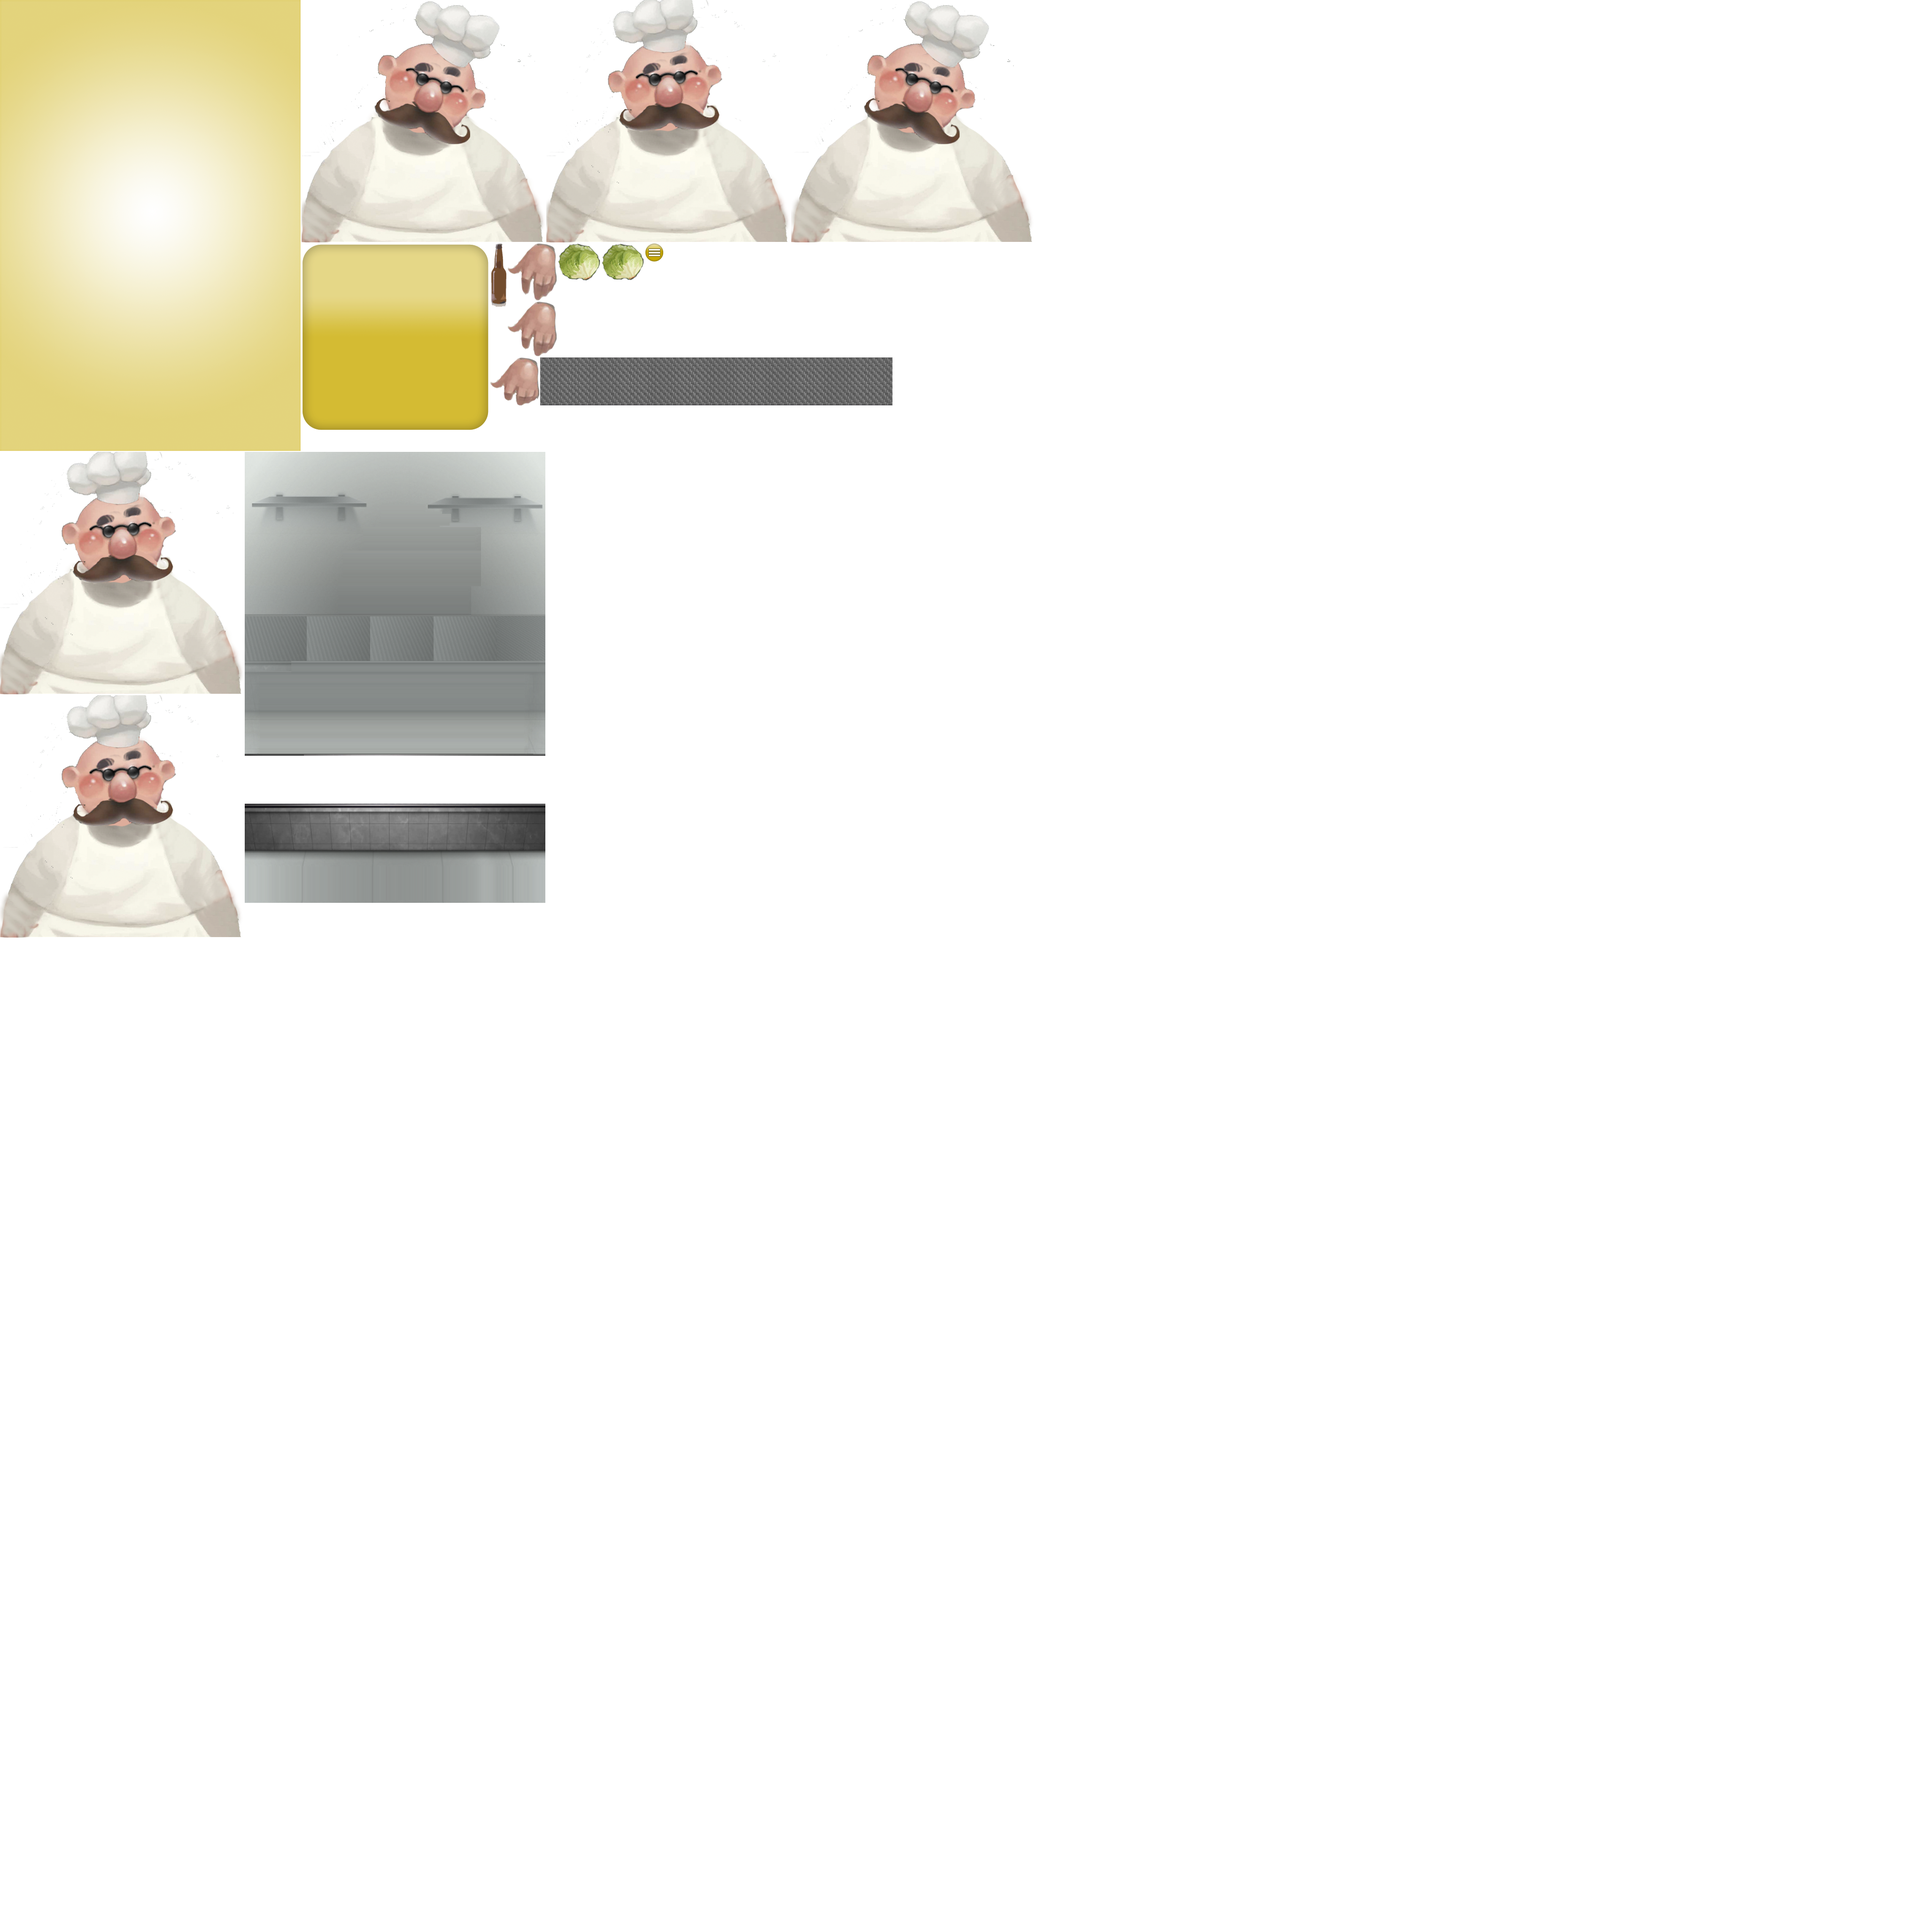
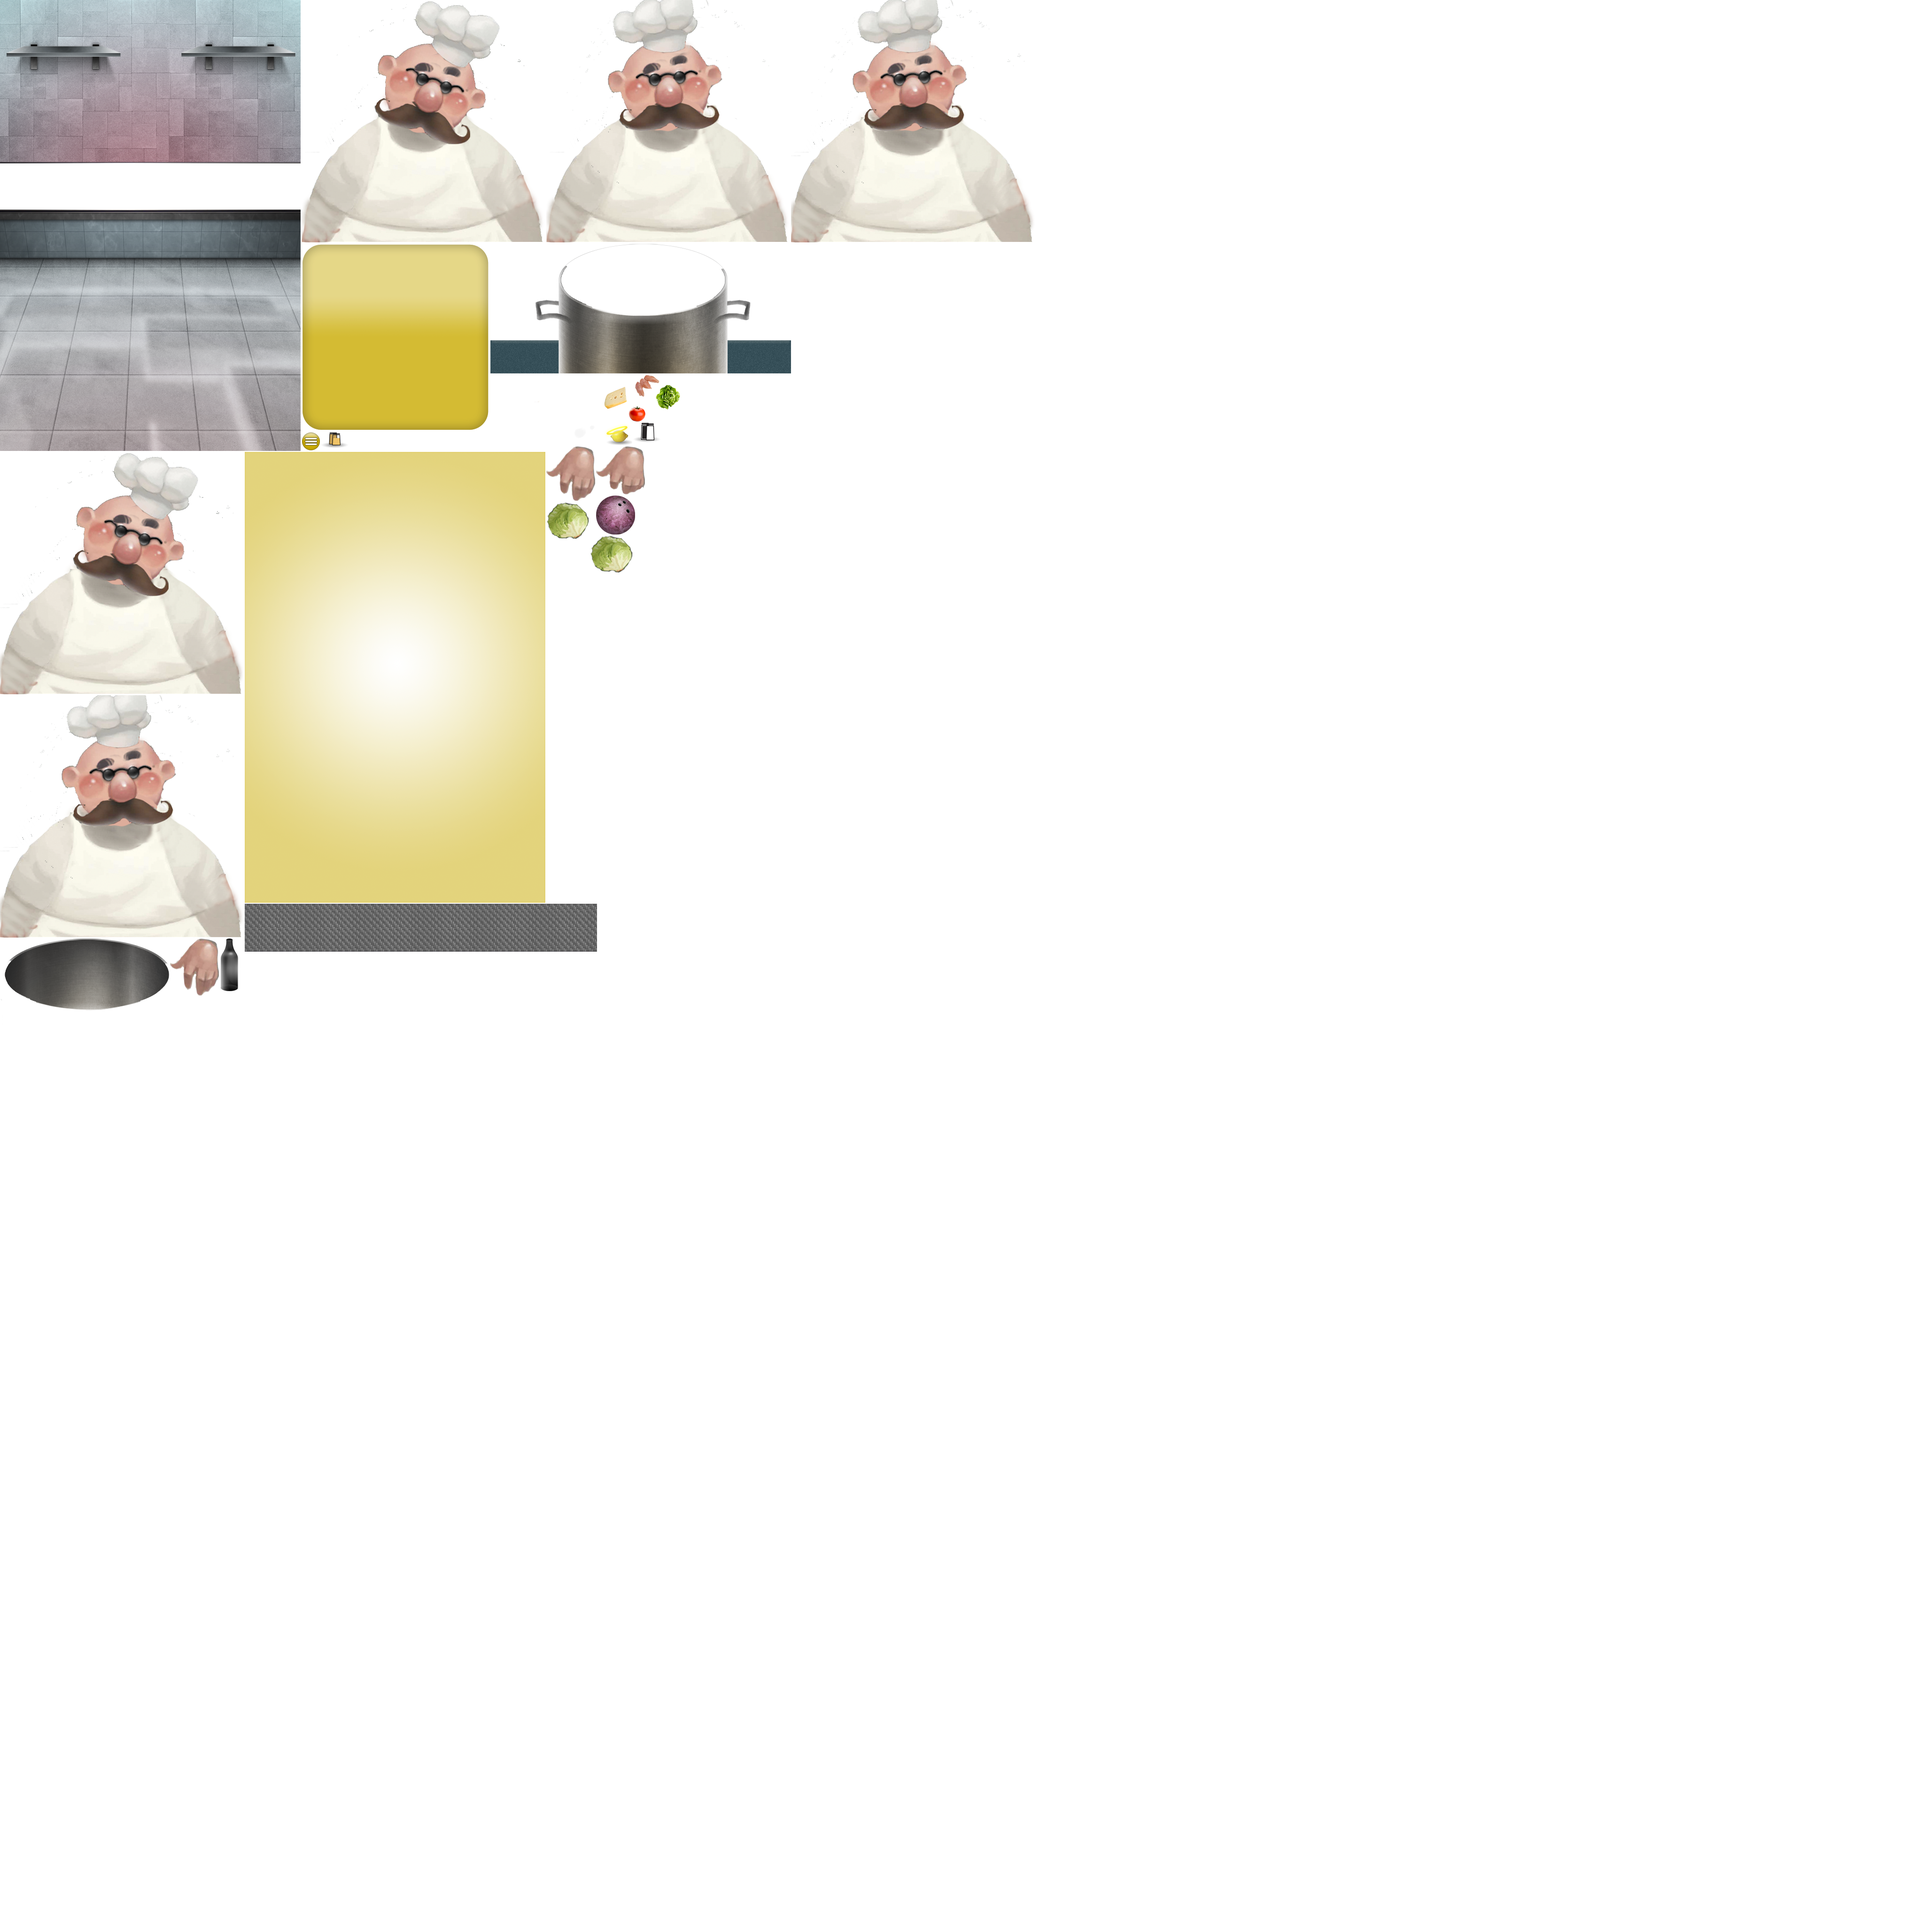
ongoing changes

Changed region(s): [[0.0, 0.0, 0.4688, 0.5312], [0.4375, 0.0, 0.5312, 0.0938], [0.1875, 0.0625, 0.2188, 0.0938]]

diff --git a/common/ui/menu/GameMenu.cpp b/common/ui/menu/GameMenu.cpp
@@ -5,7 +5,13 @@
 #include "ScoreLayer.h"
 #include "Item.h"
 #include "ItemFactory.h"
+<<<<<<< HEAD
 #include "MovementController.h"
+=======
+#include "BonusMenu.h"
+#include "MindCloudTips.h"
+#include "Pot.h"
+>>>>>>> 66fe63b87041018035495a2104b2afa262df8059
 
 USING_NS_CC;
 
@@ -51,27 +57,45 @@ void GameMenu::initializeMenu() {
     bg->setPosition(Vec2(visibleSize.width/2 + origin.x, visibleSize.height/2 + origin.y));
     this->addChild(bg, -1);
     
+    BonusMenu* bonusMenu = BonusMenu::create();
+    bonusMenu->setPosition(Vec2(bonusMenu->getPosition().x - (visibleSize.width/2 + origin.x) + 140, visibleSize.height/2 + origin.y - 100));
+    this->addChild(bonusMenu, 0);
+    
+    float yOffsetConveyer = 615;
+    
     Chef* chef = Chef::create();
-    chef->setPosition(Vec2(chef->getPosition().x + 50, 315)); //TODO: remove x position
+    chef->setPosition(Vec2(chef->getPosition().x + 200, yOffsetConveyer)); //TODO: remove x offset position
+    chef->setScale(0.5); //TODO: remove scale
     this->addChild(chef, 0);
     
-    hands = Hands::create(chef->getContentSize().width);
-    hands->setPosition(Vec2(chef->getPosition().x, chef->getPosition().y));
+    hands = Hands::create(chef->getContentSize().width/2); //TODO: remove divide 2
+    hands->setPosition(Vec2(chef->getPosition().x, yOffsetConveyer));
     this->addChild(hands, 2);
     
+    MindCloudTips* cloudTips = MindCloudTips::create("tips_level_1.png");
+    //cloudTips->setPosition(Vec2(chef->getPosition().x - cloudTips->getContentSize().width, chef->getPosition().y + chef->getContentSize().height));
+    cloudTips->setPosition(Vec2(140, yOffsetConveyer + 100));
+    this->addChild(cloudTips, 2);
+    cloudTips->toggleTip();
     
     conv = Conveyor::create();
-    conv->setPosition(Vec2(0, 315));
+    conv->setPosition(Vec2(0, yOffsetConveyer));
     this->addChild(conv, 1);
     
     yPosStartGrab = conv->getContentSize().width/2;
     yPosCheckGrab = yPosStartGrab + 100;
     
-    Item* item = ItemFactory::createItem(0, 0);
+    Item* item = ItemFactory::createItem(1, 1);
     //Gabbage* foodItem = Gabbage::create();
     item->setPosition(Vec2(visibleSize.width + origin.x, -100));
     //conv->addChild(foodItem);
     conv->addChild(item, 10);
+    
+    Pot* pot = Pot::create();
+    Node* potBack = pot->getBack();
+    this->addChild(potBack, 11);
+    Node* potFront = pot->getFront();
+    this->addChild(potFront, 100);
     
     ScoreLayer* scoreLayer = ScoreLayer::create(2300);
     scoreLayer->setPosition(Vec2(500, visibleSize.height + origin.y - 100));
@@ -94,7 +118,7 @@ void GameMenu::update(float dt) {
     if (lastCreatedItem >= nextItemDt) {
         int posOffset = getRandomNumber(1, 3);
         int offset = posOffset == 1 ? 20 : (posOffset == 2 ? 50 : 100);
-        Item* item = ItemFactory::createItem(getRandomNumber(0, 1), 0);
+        Item* item = ItemFactory::createItem(getRandomNumber(0, 1), getRandomNumber(0, 1));
         item->setPosition(Vec2(visibleSize.width + origin.x, -1 * offset));
         conv->addChild(item, 10);
        

diff --git a/common/ui/objects/items/garbage/GarbageFactory.cpp b/common/ui/objects/items/garbage/GarbageFactory.cpp
@@ -1,6 +1,7 @@
 
 #include "GarbageFactory.h"
 #include "Bottle.h"
+#include "BowlingBall.h"
 
 Garbage* GarbageFactory::createGarbage(int garbage_type)
 {
@@ -12,10 +13,15 @@ Garbage* GarbageFactory::createGarbage(int garbage_type)
             garbage = Bottle::create();
             break;
         }
+        case kGarbageBowlingBall:
+        {
+            garbage = BowlingBall::create();
+            break;
+        }
             
         default:
         {
-            garbage = NULL;
+            garbage = Bottle::create();
             break;
         }
     }

diff --git a/common/ui/objects/items/food/FoodFactory.cpp b/common/ui/objects/items/food/FoodFactory.cpp
@@ -15,7 +15,7 @@ Food* FoodFactory::createFood(int food_type)
         
         default:
         {
-            food = NULL;
+            food = Gabbage::create();
             break;
         }
     }

diff --git a/common/ui/objects/items/garbage/GarbageFactory.h b/common/ui/objects/items/garbage/GarbageFactory.h
@@ -7,7 +7,8 @@
 
 enum
 {
-    kGarbageBottle = 0
+    kGarbageBottle = 0,
+    kGarbageBowlingBall
 };
 
 class GarbageFactory {
